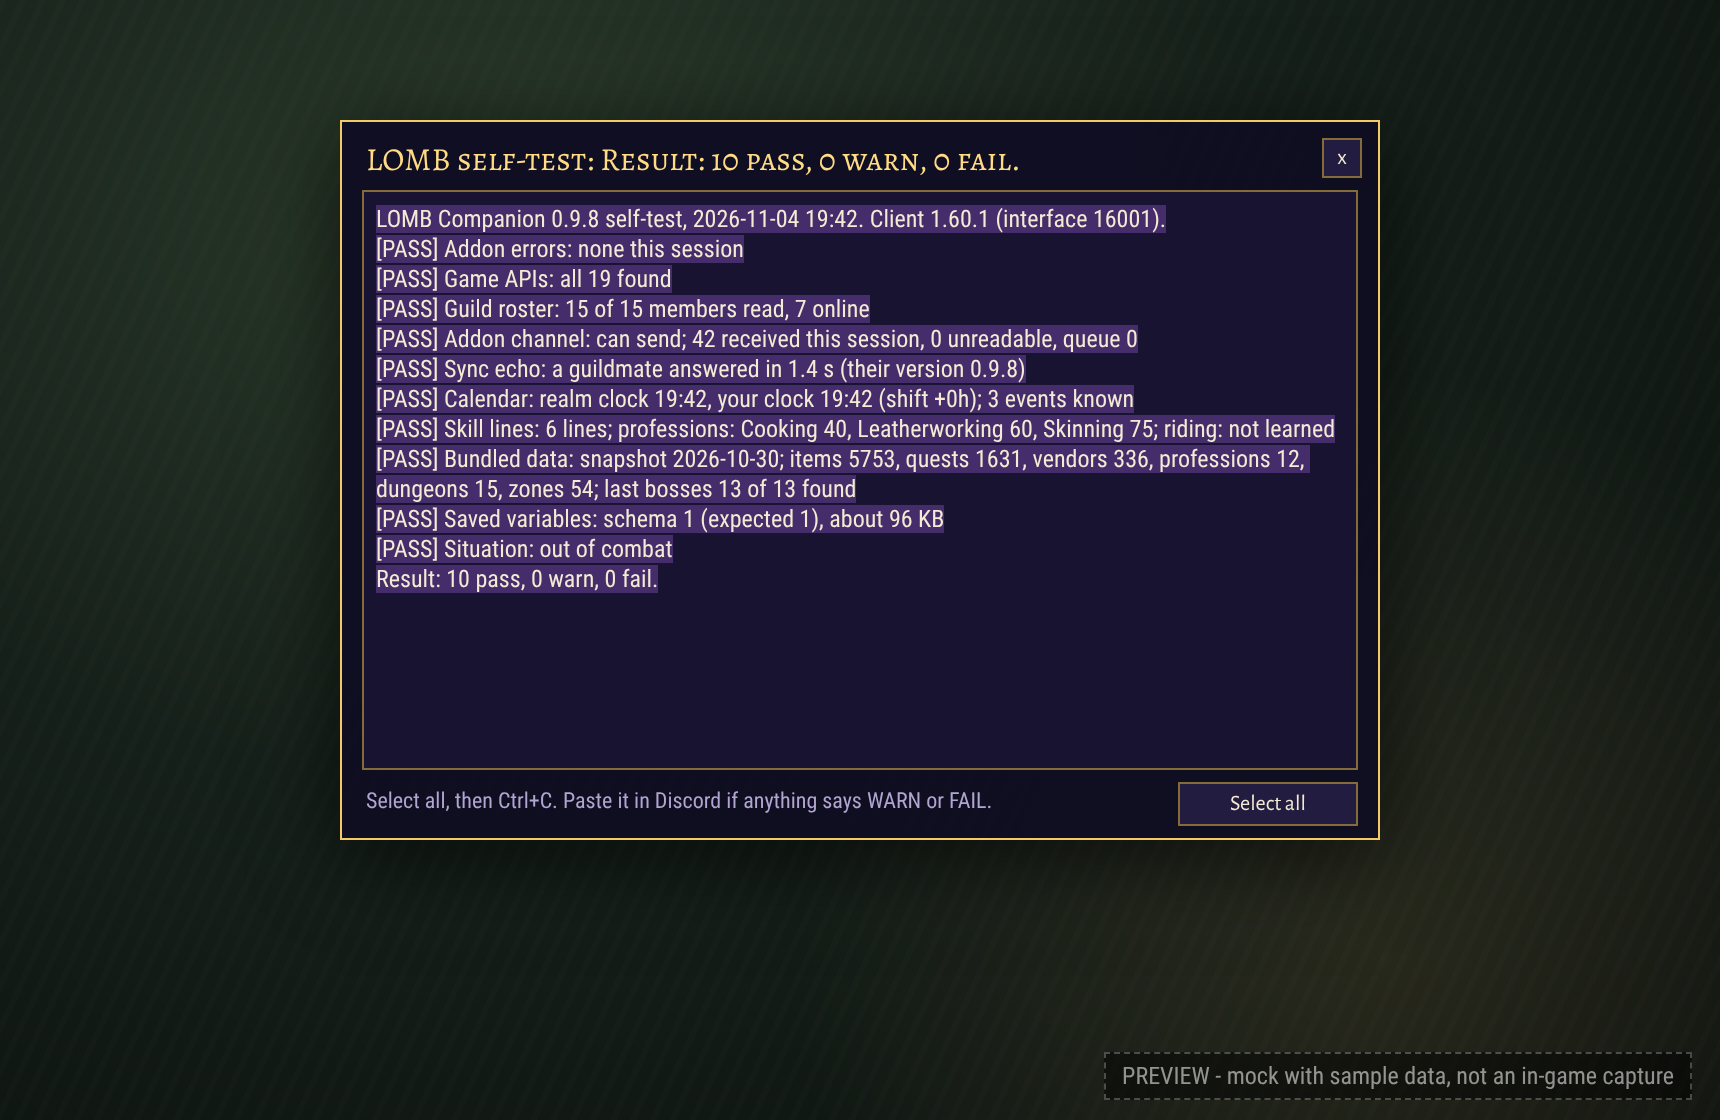
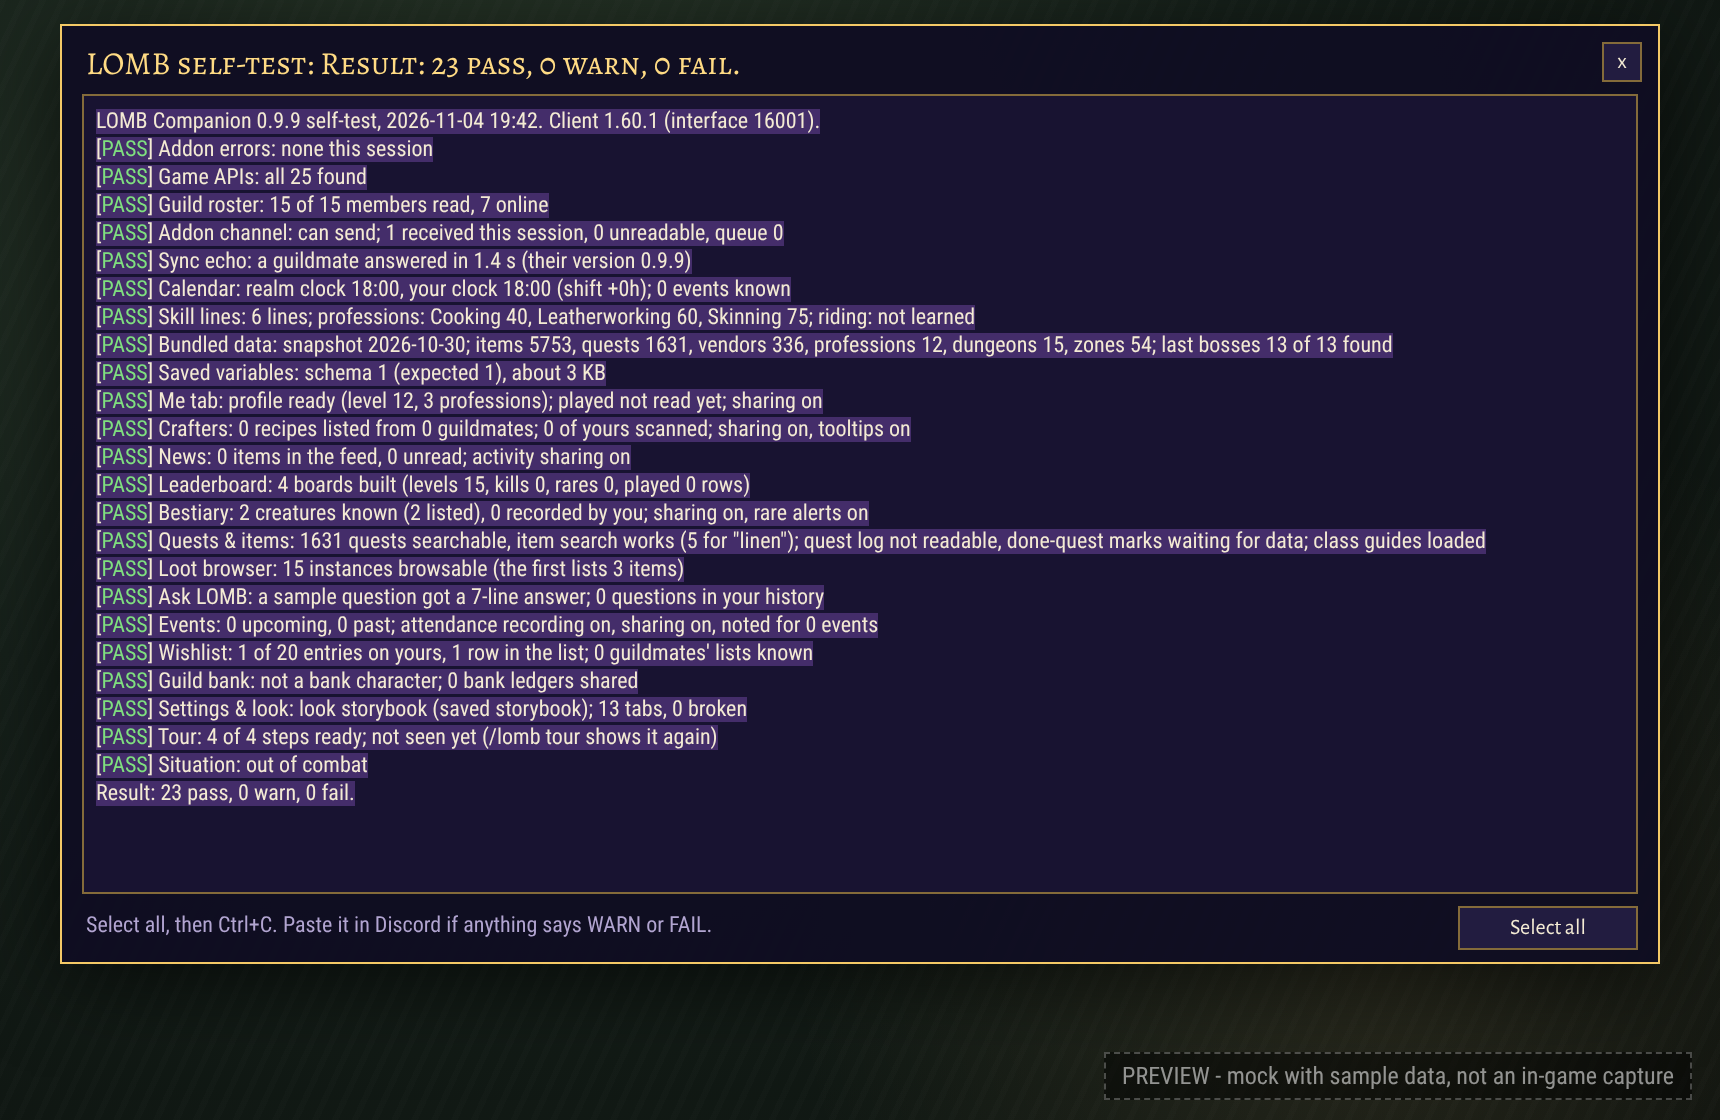
0.9.9 (v0.6.17): /lomb test checks every feature; labelled optional APIs; README self-test shot

diff --git a/README.md b/README.md
@@ -8,7 +8,7 @@ LOMB Companion is a free in-game addon made just for the **Land of Make Believe 
 
 It has its own LOMB look instead of the standard Blizzard-style frames, and it lives in one window you can open from the minimap. By default it wears a [storybook look](#storybook-look) made for the Land of Make Believe, and there's a plainer Clean look in Settings if you prefer.
 
-> **Status:** v0.1–v0.8 are built and pass their offline tests, including v0.6 Quests & Items (released as `v0.6.0`, in-game version 0.8.2, with the `v0.6.1` quest chain patch as in-game 0.8.3 and later patches up to the `v0.6.9` forgiving Ask LOMB as in-game 0.9.1, the `v0.6.11` guild activity feed as in-game 0.9.3 the `v0.6.12` launch prep (self-test, welcome tour, more news, sortable lists) as in-game 0.9.4 the `v0.6.13` polish pass (resizable window, tooltips everywhere, faster Bestiary) as in-game 0.9.5 the `v0.6.14` storybook look as in-game 0.9.6 the `v0.6.15` storybook-by-default release as in-game 0.9.7 and the `v0.6.16` storybook title bar fix as in-game 0.9.8; see the [changelog](CHANGELOG.md)). They are awaiting their first in-game test when WoW: Forever launches on Nov 4, 2026. v0.9 raid tools wait for the live game.
+> **Status:** v0.1–v0.8 are built and pass their offline tests, including v0.6 Quests & Items (released as `v0.6.0`, in-game version 0.8.2, with the `v0.6.1` quest chain patch as in-game 0.8.3 and later patches up to the `v0.6.9` forgiving Ask LOMB as in-game 0.9.1, the `v0.6.11` guild activity feed as in-game 0.9.3 the `v0.6.12` launch prep (self-test, welcome tour, more news, sortable lists) as in-game 0.9.4 the `v0.6.13` polish pass (resizable window, tooltips everywhere, faster Bestiary) as in-game 0.9.5 the `v0.6.14` storybook look as in-game 0.9.6 the `v0.6.15` storybook-by-default release as in-game 0.9.7 the `v0.6.16` storybook title bar fix as in-game 0.9.8 and the `v0.6.17` self-test and fixes release as in-game 0.9.9; see the [changelog](CHANGELOG.md)). They are awaiting their first in-game test when WoW: Forever launches on Nov 4, 2026. v0.9 raid tools wait for the live game.
 
 > ☕ Quest, item and vendor data comes from [ForeverDB.net](https://foreverdb.net). Their help keeps this project alive, so if you can, [support ForeverDB.net](https://buymeacoffee.com/foreverdb).
 
@@ -50,8 +50,8 @@ It has its own LOMB look instead of the standard Blizzard-style frames, and it l
 | ![News tab](docs/screenshots/news/12-news.png) | ![News filtered to dungeon and raid clears](docs/screenshots/news/51-news-dungeons.png) |
 | **News: epic loot only (v0.6.12)** | **Welcome tour (v0.6.12)** |
 | ![News filtered to epic loot](docs/screenshots/news/53-news-epic-loot.png) | ![Welcome tour step 2 pointing at the tab list](docs/screenshots/core/54-welcome-tour.png) |
-| **Self-test report (v0.6.12)** | **Resizable window with tooltips (v0.6.13)** |
-| ![The /lomb test report window with ten PASS lines and a Select all button](docs/screenshots/core/55-self-test.png) | ![The window dragged larger, with the News tab tooltip and the resize grip tooltip](docs/screenshots/core/56-resized-tooltips.png) |
+| **Self-test report (v0.6.17)** | **Resizable window with tooltips (v0.6.13)** |
+| ![The /lomb test report window with a PASS line for every feature and a Select all button](docs/screenshots/core/55-self-test.png) | ![The window dragged larger, with the News tab tooltip and the resize grip tooltip](docs/screenshots/core/56-resized-tooltips.png) |
 | **Bestiary search with no matches (v0.6.13)** | |
 | ![Bestiary tab searching for zzz, showing No creatures match](docs/screenshots/bestiary/57-bestiary-empty.png) | |
 | **Leaderboard: levels (v0.3)** | **Leaderboard: kills this week (v0.3)** |
@@ -180,7 +180,7 @@ Everything opens from one movable window with tabs, a minimap button, or the `/l
   - Three switches in Settings: tell guildmates, show alerts (both on), play a sound (off). "Preview a rare alert" shows what one looks like.
 
 ### v0.6: Quests & Items (built, awaiting in-game test)
-Released as `v0.6.0` (in-game version **0.8.2**), with the quest chain patch `v0.6.1` (in-game **0.8.3**), the storyline and quest progress patch `v0.6.2` (in-game **0.8.4**), the guides release `v0.6.3` (in-game **0.8.5**), the Ask LOMB question box `v0.6.4` (in-game **0.8.6**) the local-time, minimap and saved-history patch `v0.6.5` (in-game **0.8.7**) and the item-row patch `v0.6.6` (in-game **0.8.8**) the loot browser `v0.6.7` (in-game **0.8.9**), the clean-up `v0.6.8` (in-game **0.9.0**), the forgiving Ask LOMB patch `v0.6.9` (in-game **0.9.1**), `v0.6.10` (in-game **0.9.2**, superseded), the guild activity feed `v0.6.11` (in-game **0.9.3**), the launch prep release `v0.6.12` (in-game **0.9.4**) the polish pass `v0.6.13` (in-game **0.9.5**) the storybook look `v0.6.14` (in-game **0.9.6**) storybook-by-default `v0.6.15` (in-game **0.9.7**) and the storybook title bar fix `v0.6.16` (in-game **0.9.8**). The addon's own version runs ahead of the tags because v0.7 and v0.8 shipped first. Uses **ForeverDB.net** data with their approval (see [Data & credits](#data--credits)). Every place it appears says **"Data from ForeverDB.net"** with https://foreverdb.net as copyable text.
+Released as `v0.6.0` (in-game version **0.8.2**), with the quest chain patch `v0.6.1` (in-game **0.8.3**), the storyline and quest progress patch `v0.6.2` (in-game **0.8.4**), the guides release `v0.6.3` (in-game **0.8.5**), the Ask LOMB question box `v0.6.4` (in-game **0.8.6**) the local-time, minimap and saved-history patch `v0.6.5` (in-game **0.8.7**) and the item-row patch `v0.6.6` (in-game **0.8.8**) the loot browser `v0.6.7` (in-game **0.8.9**), the clean-up `v0.6.8` (in-game **0.9.0**), the forgiving Ask LOMB patch `v0.6.9` (in-game **0.9.1**), `v0.6.10` (in-game **0.9.2**, superseded), the guild activity feed `v0.6.11` (in-game **0.9.3**), the launch prep release `v0.6.12` (in-game **0.9.4**) the polish pass `v0.6.13` (in-game **0.9.5**) the storybook look `v0.6.14` (in-game **0.9.6**) storybook-by-default `v0.6.15` (in-game **0.9.7**) the storybook title bar fix `v0.6.16` (in-game **0.9.8**) and the self-test and fixes release `v0.6.17` (in-game **0.9.9**). The addon's own version runs ahead of the tags because v0.7 and v0.8 shipped first. Uses **ForeverDB.net** data with their approval (see [Data & credits](#data--credits)). Every place it appears says **"Data from ForeverDB.net"** with https://foreverdb.net as copyable text.
 - **Quests & Items tab** with views for Quests, Items, Vendors, Recipes and Loot (called Dungeons before v0.6.7), plus the guide views, each with search and a detail page.
   - **Quests** for levels 1–30: level and minimum level, faction, zone, who starts it and where to turn it in (with map spots), and the quest chain (comes after / leads to; click to follow, "<" to go back). Filters: this zone, near my level (±3) or a level band, and my faction.
   - **Quest chains (v0.6.1):** a chained quest is tagged "Part 2 of 4" in the list (with a thin violet bar), and the quests of a chain are listed together in chain order, where the chain's first listed quest would be. Same-name quests stay separate lines. Chains that branch are cut into straight lines; a branch keeps counting from the quest it branches off. "of 4+" means the chain carries on past level 30.
@@ -280,6 +280,7 @@ In plain English:
 - **v0.6.12 (in-game 0.9.4):** launch prep. `/lomb test` checks that everything works and makes a report you can copy, a four-step welcome tour (reopen it from Settings or with `/lomb tour`), News lines for epic loot, first mounts and welcome backs (14+ days away) with their own filters, and sortable column headers on the Roster, Crafters, Bank, Wishlist and attendance lists. Plus an [install guide](docs/INSTALL.md) and a [launch-day checklist](docs/LAUNCH-CHECKLIST.md).
 - **v0.6.14 (in-game 0.9.6):** an optional storybook look (Settings > Look): a night-sky violet and gold window with a parchment title bar, stars, gold flourishes, tab icons and storybook lines on empty pages.
 - **v0.6.15 (in-game 0.9.7):** the storybook look is now the default, and Settings > Look is a drop-down: Storybook (default) or Clean. Every screenshot shows the storybook look.
+- **v0.6.17 (in-game 0.9.9):** `/lomb test` now checks every feature (one read-only line each), plus fixes from a code review: guild data from other addons is cleaned before it is shown, gear isn't wiped before the roster loads, a lost /played is no longer swallowed, and the wishlist heart no longer errors when the list is full.
 - **v0.6.16 (in-game 0.9.8):** a tidier storybook title bar: matching corner flourishes in both top corners, outside the close button and the moon.
 - **v0.6.13 (in-game 0.9.5):** polish pass. A resizable window (drag the corner grip; right-click it for the default size), a tooltip on every control and tab, lists that keep their scroll position, clearer empty states, "…" on long names, and a Bestiary tab that refreshes about 4× faster with a big bestiary.
 - **v0.6.10 (in-game 0.9.2):** superseded by v0.6.11 (see the [changelog](CHANGELOG.md)).

diff --git a/CHANGELOG.md b/CHANGELOG.md
@@ -1,8 +1,20 @@
 # Changelog
 
-Release tags follow the roadmap (v0.1 … v1.0). The addon's own version, shown in game and in the TOC, is separate: **release v0.6.0 is in-game version 0.8.2, v0.6.1 is 0.8.3, v0.6.2 is 0.8.4, v0.6.3 is 0.8.5, v0.6.4 is 0.8.6, v0.6.5 is 0.8.7, v0.6.6 is 0.8.8, v0.6.7 is 0.8.9, v0.6.8 is 0.9.0, v0.6.9 is 0.9.1, v0.6.10 is 0.9.2, v0.6.11 is 0.9.3, v0.6.12 is 0.9.4, v0.6.13 is 0.9.5, v0.6.14 is 0.9.6, v0.6.15 is 0.9.7 and v0.6.16 is 0.9.8**, because v0.7 and v0.8 were built before ForeverDB.net approved API access for v0.6.
+Release tags follow the roadmap (v0.1 … v1.0). The addon's own version, shown in game and in the TOC, is separate: **release v0.6.0 is in-game version 0.8.2, v0.6.1 is 0.8.3, v0.6.2 is 0.8.4, v0.6.3 is 0.8.5, v0.6.4 is 0.8.6, v0.6.5 is 0.8.7, v0.6.6 is 0.8.8, v0.6.7 is 0.8.9, v0.6.8 is 0.9.0, v0.6.9 is 0.9.1, v0.6.10 is 0.9.2, v0.6.11 is 0.9.3, v0.6.12 is 0.9.4, v0.6.13 is 0.9.5, v0.6.14 is 0.9.6, v0.6.15 is 0.9.7, v0.6.16 is 0.9.8 and v0.6.17 is 0.9.9**, because v0.7 and v0.8 were built before ForeverDB.net approved API access for v0.6.
 
 Nothing here has been tested in the real game yet. WoW: Forever launches on November 4, 2026.
+
+## v0.6.17 (in-game 0.9.9): a self-test line for every feature, and fixes, 2026-10-31
+
+Pre-release, untested in game. `/lomb test` grows a line for each feature, and a full code review fixed the bugs below. Nothing else changes.
+
+- **`/lomb test` checks every feature.** New lines after Saved variables, each calling the feature's own functions the way its tab does: **Me tab** (profile, professions, played, sharing), **Crafters** (recipe search, your scanned recipes), **News** (feed, unread), **Leaderboard** (all four boards build), **Bestiary** (list, sharing, rare alerts), **Quests & items** (quest list and item search over the ForeverDB.net data, quest tracking, class guides), **Loot browser**, **Ask LOMB** (answers a sample question without adding it to your history), **Events** (upcoming/past, attendance recording and sharing), **Wishlist**, **Guild bank**, **Settings & look** (the saved look is the one showing, every tab builds) and **Tour** (all steps ready). Every line is read-only: nothing is sent, posted or changed, and no names appear in the report. A feature whose functions break shows up as a failed check.
+- **Game APIs line** checks more of the optional APIs (group size, loot slots, gear links, bag slots) and says what stays off when one is missing, e.g. "GetNumGroupMembers (event attendance)".
+- **Fixed: guild data from other players is cleaned before it's shown.** Rare sightings, shared bestiary entries, guildmates' profiles (version, class, professions, level, item level, played time) and the "a newer version is out" notice could carry chat colour/link codes or oversized values from a broken or hostile client. They are now trimmed, stripped of escape codes and range-checked; bestiary entries with fractional or zero ids are dropped.
+- **Fixed: inspected gear wiped at login.** Gear you'd inspected was pruned as "not in the guild" if the prune ran before the guild roster had loaded. It now waits for the roster.
+- **Fixed: a lost /played.** If the game never answered the addon's quiet /played request, your next typed /played could be swallowed. The quiet flag now clears itself after 10 seconds.
+- **Fixed: wishlist heart on a full list.** Clicking the heart in the loot browser when your wishlist was full threw a Lua error instead of saying why. It now says the list is full.
+- Tests: new tests for each fix (each fails without it) and for the new self-test lines (all present and passing on a fresh install, live data shown, a broken feature fails, nothing sent, no names).
 
 ## v0.6.16 (in-game 0.9.8): storybook title bar, 2026-10-31
 
